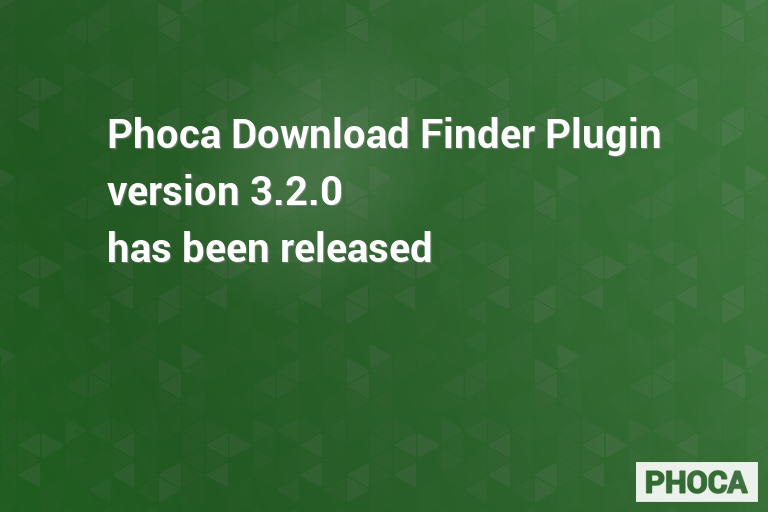
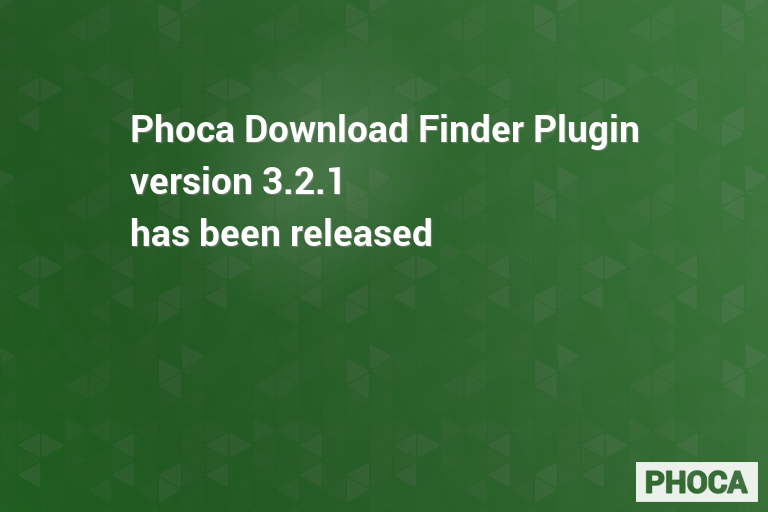
3.2.1
3.2.1

Changed region(s): [[0.125, 0.2188, 0.875, 0.5312]]

diff --git a/README.MD b/README.MD
@@ -54,7 +54,7 @@ Phoca Download Finder plugin is a Joomla! plugin which allows you to search for 
 
 ## Version
 
-3.2.0
+3.2.1
 
 
 
